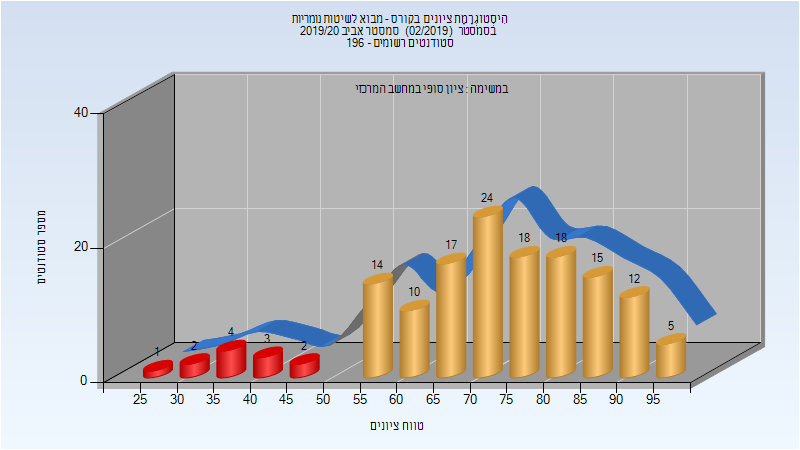
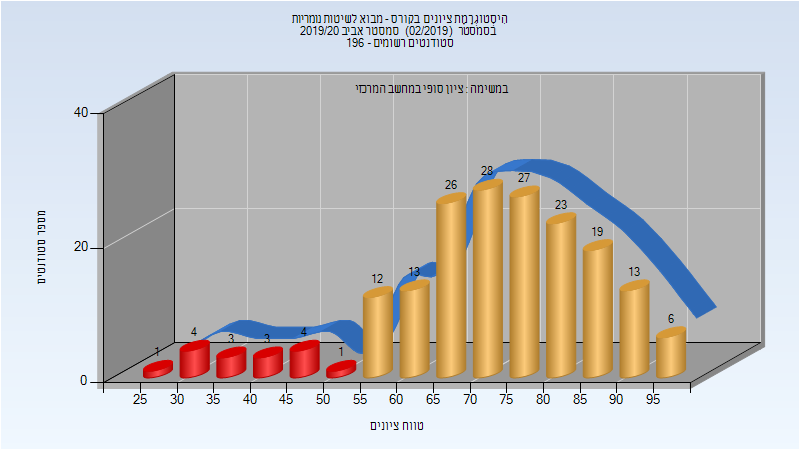
Deploy michael-maltsev/technion-histograms to github.com/michael-maltsev/technion-histograms.git:gh-pages

Changed region(s): [[0.2188, 0.3422, 0.9062, 0.84]]

diff --git a/014006/index.html b/014006/index.html
@@ -759,6 +759,32 @@
 </tr>
 </tbody>
 </table>
+<h3>סופי מועד ב'</h3>
+<p><img src="201902/Final_B.png" alt="201902 Final_B" /></p>
+<table>
+<thead>
+<tr>
+<th>סטודנטים</th>
+<th>עברו/נכשלו</th>
+<th>אחוז עוברים</th>
+<th>ציון מינימלי</th>
+<th>ציון מקסימלי</th>
+<th>ממוצע</th>
+<th>חציון</th>
+</tr>
+</thead>
+<tbody>
+<tr>
+<td>70</td>
+<td>54/16</td>
+<td>77</td>
+<td>27</td>
+<td>96</td>
+<td>64.357</td>
+<td>67.5</td>
+</tr>
+</tbody>
+</table>
 <h3>סופי</h3>
 <p><img src="201902/Finals.png" alt="201902 Finals" /></p>
 <table>
@@ -775,13 +801,13 @@
 </thead>
 <tbody>
 <tr>
-<td>145</td>
-<td>133/12</td>
-<td>92</td>
-<td>29</td>
+<td>183</td>
+<td>167/16</td>
+<td>91</td>
+<td>27</td>
 <td>97</td>
-<td>72.448</td>
-<td>73</td>
+<td>72.536</td>
+<td>74</td>
 </tr>
 </tbody>
 </table>

diff --git a/014213/index.html b/014213/index.html
@@ -382,7 +382,7 @@
 <td>87</td>
 <td>23</td>
 <td>100</td>
-<td>69.863</td>
+<td>69.884</td>
 <td>70.5</td>
 </tr>
 </tbody>

diff --git a/014006/README.md b/014006/README.md
@@ -234,11 +234,19 @@
 | ---- | ---- | ---- | ---- | ---- | ---- | ---- |
 | 145 | 133/12 | 92 | 29 | 97 | 72.448 | 73 |
 
+### סופי מועד ב'
+
+![201902 Final_B](201902/Final_B.png)
+
+| סטודנטים | עברו/נכשלו | אחוז עוברים | ציון מינימלי | ציון מקסימלי | ממוצע | חציון |
+| ---- | ---- | ---- | ---- | ---- | ---- | ---- |
+| 70 | 54/16 | 77 | 27 | 96 | 64.357 | 67.5 |
+
 ### סופי
 
 ![201902 Finals](201902/Finals.png)
 
 | סטודנטים | עברו/נכשלו | אחוז עוברים | ציון מינימלי | ציון מקסימלי | ממוצע | חציון |
 | ---- | ---- | ---- | ---- | ---- | ---- | ---- |
-| 145 | 133/12 | 92 | 29 | 97 | 72.448 | 73 |
+| 183 | 167/16 | 91 | 27 | 97 | 72.536 | 74 |
 

diff --git a/014213/README.md b/014213/README.md
@@ -115,5 +115,5 @@
 
 | סטודנטים | עברו/נכשלו | אחוז עוברים | ציון מינימלי | ציון מקסימלי | ממוצע | חציון |
 | ---- | ---- | ---- | ---- | ---- | ---- | ---- |
-| 146 | 127/19 | 87 | 23 | 100 | 69.863 | 70.5 |
+| 146 | 127/19 | 87 | 23 | 100 | 69.884 | 70.5 |
 
